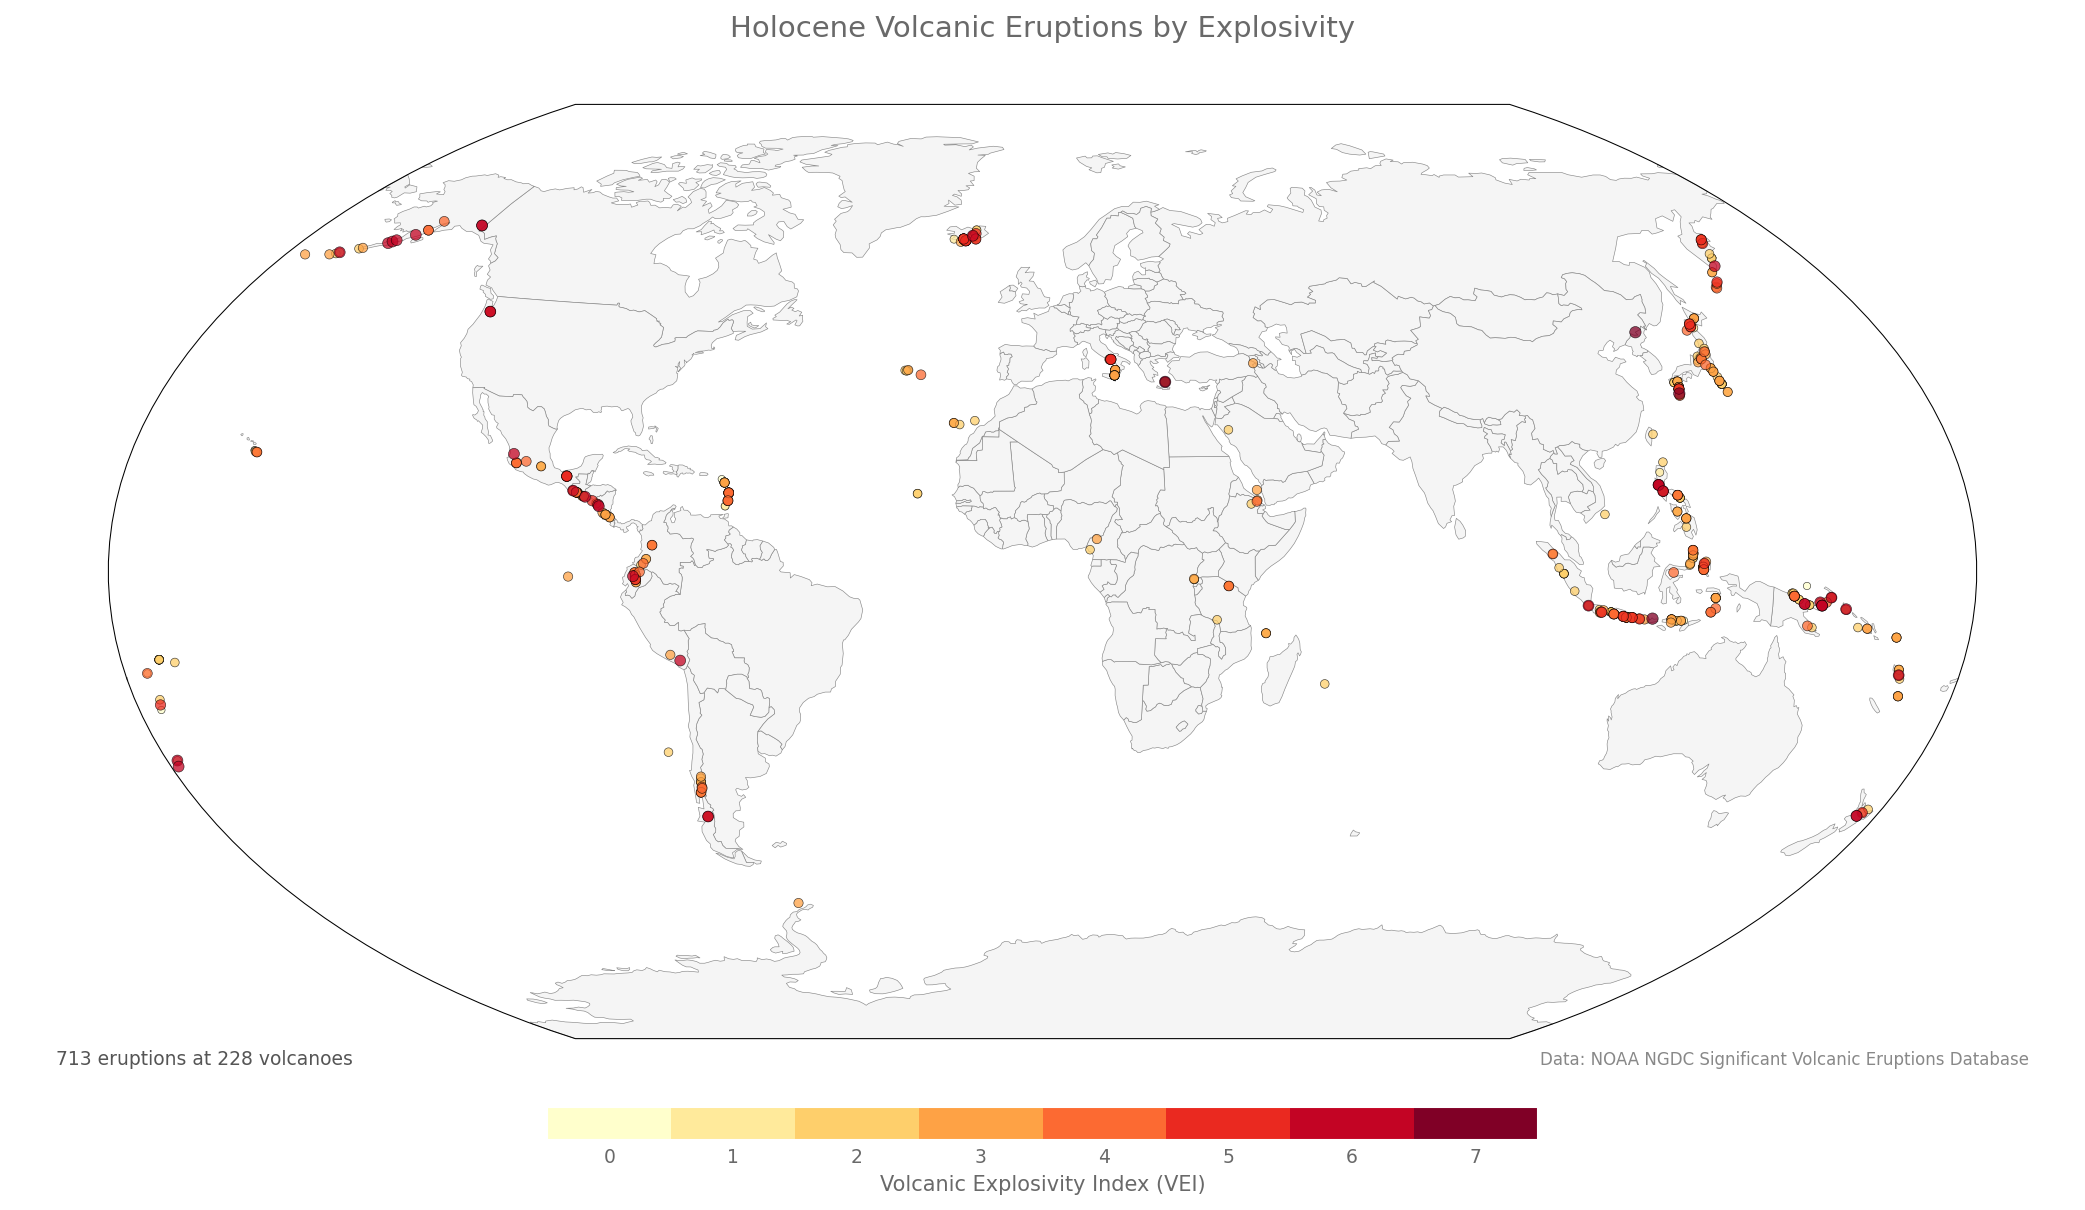
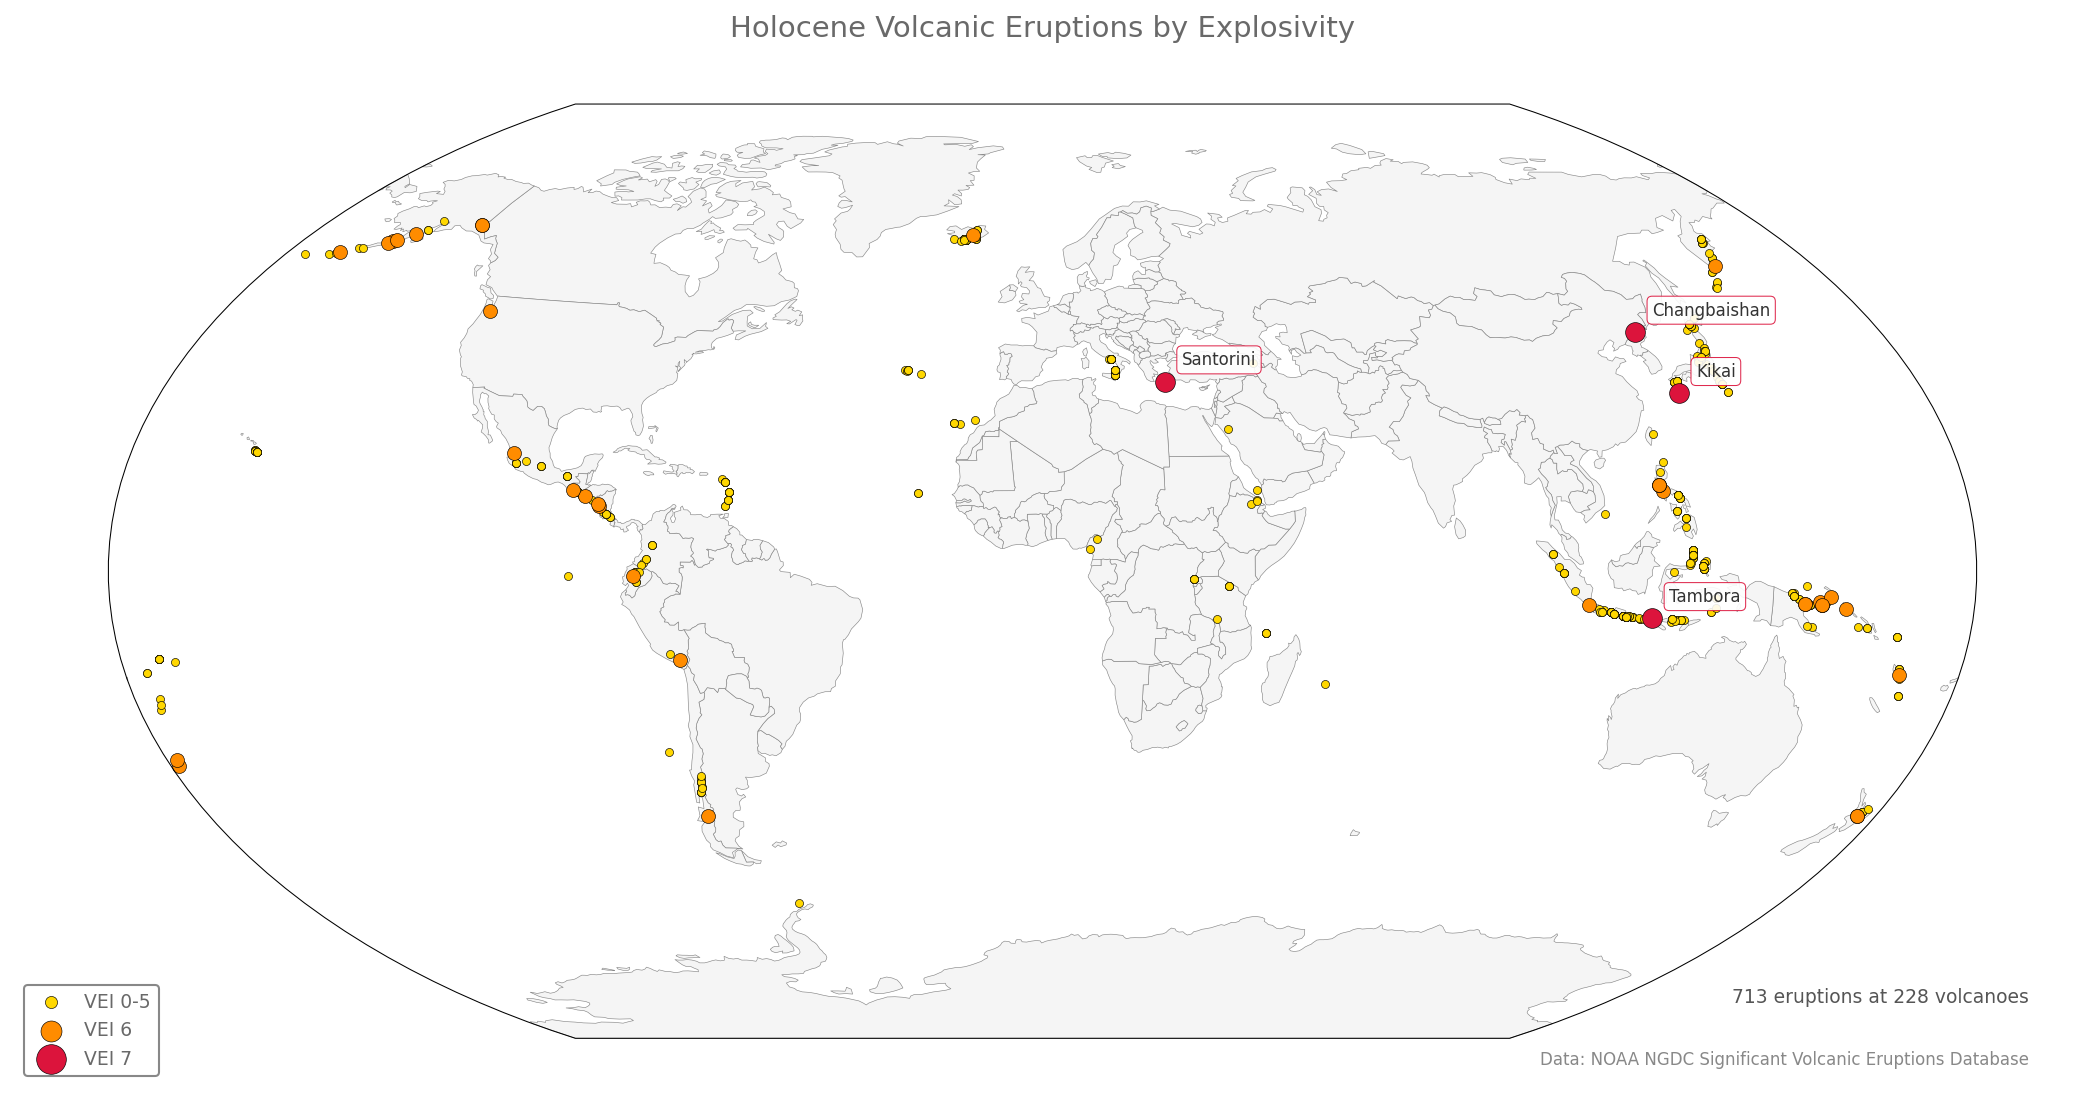
Improved the final plot

diff --git a/src/volcano_map.py b/src/volcano_map.py
@@ -1,8 +1,9 @@
 """
 Plot Holocene volcanic eruptions on a world map, colored by VEI.
 
-Reads volcano data from data/volcano_list.tsv and creates a map showing
-eruption locations as dots colored by Volcanic Explosivity Index (VEI).
+Reads volcano data from data/volcano_list.csv and creates a map showing
+eruption locations as dots. VEI 0-5 shown in yellow, VEI 6 in orange (2x size),
+VEI 7 in red (4x size), with volcano names labeled.
 
 Usage:
     python src/plot_volcano_map.py
@@ -11,8 +12,6 @@ Usage:
 import pandas as pd
 import geopandas as gpd
 import matplotlib.pyplot as plt
-from matplotlib.colors import BoundaryNorm
-from matplotlib.cm import ScalarMappable
 import numpy as np
 import warnings
 from pathlib import Path
@@ -23,7 +22,7 @@ plt.style.use("https://raw.githubusercontent.com/allfed/ALLFED-matplotlib-style-
 
 def load_volcano_data(filepath):
     """
-    Load and clean volcano eruption data from TSV file.
+    Load and clean volcano eruption data from CSV file.
     
     Handles the NOAA NGDC format which has:
     - A "Search Parameters" row at the top
@@ -118,13 +117,6 @@ def plot_volcano_map(volcano_gdf, output_path):
     world = world.to_crs('+proj=wintri')
     volcano_gdf = volcano_gdf.to_crs('+proj=wintri')
     
-    # Set up VEI colormap
-    # VEI ranges 0-7, using Yellow-Orange-Red for intuitive severity mapping
-    vei_min, vei_max = 0, 7
-    vei_levels = np.arange(vei_min, vei_max + 2)  # Boundaries: 0,1,2,3,4,5,6,7,8
-    cmap = plt.cm.YlOrRd
-    norm = BoundaryNorm(vei_levels, cmap.N)
-    
     # Create figure
     fig, ax = plt.subplots(figsize=(14, 8))
     ax.set_facecolor('white')
@@ -132,25 +124,74 @@ def plot_volcano_map(volcano_gdf, output_path):
     # Plot countries (light gray background)
     world.plot(ax=ax, color='#F5F5F5', edgecolor='#888888', linewidth=0.3)
     
-    # Sort by VEI so larger eruptions are plotted on top
-    volcano_gdf = volcano_gdf.sort_values('VEI')
+    # Define VEI groups with colors and sizes
+    # Base size for VEI 0-5, then double for each level
+    base_size = 60
+    vei_groups = [
+        {'vei_range': (0, 5), 'color': '#FFD700', 'size': base_size, 'label': 'VEI 0-5'},
+        {'vei_range': (6, 6), 'color': '#FF8C00', 'size': base_size * 3, 'label': 'VEI 6'},
+        {'vei_range': (7, 7), 'color': '#DC143C', 'size': base_size * 6, 'label': 'VEI 7'}
+    ]
     
-    # Size scales with VEI for better visibility of large eruptions
-    sizes = 50 + volcano_gdf['VEI'] * 10
+    # Plot each VEI group separately
+    # Plot in reverse order so larger eruptions appear on top
+    for group in vei_groups:
+        vei_min, vei_max = group['vei_range']
+        mask = (volcano_gdf['VEI'] >= vei_min) & (volcano_gdf['VEI'] <= vei_max)
+        subset = volcano_gdf[mask]
+        
+        if len(subset) > 0:
+            ax.scatter(
+                subset.geometry.x,
+                subset.geometry.y,
+                c=group['color'],
+                s=group['size'],
+                alpha=1,
+                edgecolor='black',
+                linewidth=0.3,
+                label=group['label'],
+                zorder=3
+            )
     
-    # Plot volcano points
-    scatter = ax.scatter(
-        volcano_gdf.geometry.x,
-        volcano_gdf.geometry.y,
-        c=volcano_gdf['VEI'],
-        cmap=cmap,
-        norm=norm,
-        s=sizes,
-        alpha=0.75,
-        edgecolor='black',
-        linewidth=0.3,
-        zorder=3
-    )
+    # Add labels for VEI 7 eruptions
+    vei7_mask = volcano_gdf['VEI'] == 7
+    vei7_eruptions = volcano_gdf[vei7_mask]
+    
+    # Use adjustText if available, otherwise simple labels with offset
+    try:
+        from adjustText import adjust_text
+        texts = []
+        for idx, row in vei7_eruptions.iterrows():
+            text = ax.annotate(
+                row['Name'],
+                xy=(row.geometry.x, row.geometry.y),
+                xytext=(8, 8),
+                textcoords='offset points',
+                fontsize=8,
+                color='#333333',
+                bbox=dict(boxstyle='round,pad=0.3', facecolor='white', 
+                         edgecolor='grey', alpha=0.9, linewidth=0.5),
+                zorder=4
+            )
+            texts.append(text)
+        
+        # Adjust text positions to avoid overlaps
+        adjust_text(texts, arrowprops=dict(arrowstyle='-', color='#888888', 
+                                          lw=0.5, alpha=0.7))
+    except ImportError:
+        # Fallback: simple labels with offset
+        for idx, row in vei7_eruptions.iterrows():
+            ax.annotate(
+                row['Name'],
+                xy=(row.geometry.x, row.geometry.y),
+                xytext=(8, 8),
+                textcoords='offset points',
+                fontsize=8,
+                color='#333333',
+                bbox=dict(boxstyle='round,pad=0.3', facecolor='white', 
+                         edgecolor='#DC143C', alpha=0.9, linewidth=0.5),
+                zorder=4
+            )
     
     # Add ALLFED border
     border.plot(ax=ax, edgecolor='black', linewidth=0.5, facecolor='none', zorder=4)
@@ -158,34 +199,30 @@ def plot_volcano_map(volcano_gdf, output_path):
     # Remove axes
     ax.set_axis_off()
     
-    # Add colorbar
-    sm = ScalarMappable(cmap=cmap, norm=norm)
-    sm.set_array([])
-    cbar = fig.colorbar(
-        sm,
-        ax=ax,
-        orientation='horizontal',
-        fraction=0.03,
-        pad=0.02,
-        aspect=30,
-        ticks=np.arange(vei_min, vei_max + 1) + 0.5  # Center ticks in each color band
+    # Add legend (lower left)
+    legend = ax.legend(
+        loc='lower left',
+        frameon=True,
+        facecolor='white',
+        edgecolor='#888888',
+        fontsize=9,
+        markerscale=1.5
     )
-    cbar.ax.set_xticklabels(range(vei_min, vei_max + 1))  # Label with actual VEI values
-    cbar.set_label('Volcanic Explosivity Index (VEI)', fontsize=10)
-    cbar.ax.tick_params(labelsize=9, which='both', length=0, width=0)
+    legend.set_zorder(5)
     
     # Add title
     ax.set_title('Holocene Volcanic Eruptions by Explosivity', fontsize=14, pad=10)
     
-    # Add data summary annotation
+    # Add data summary annotation (lower right to avoid legend overlap)
     n_eruptions = len(volcano_gdf)
     n_volcanoes = volcano_gdf['Name'].nunique()
     ax.annotate(
         f'{n_eruptions:,} eruptions at {n_volcanoes:,} volcanoes',
-        xy=(0.02, 0.02),
+        xy=(0.98, 0.08),
         xycoords='axes fraction',
         fontsize=9,
-        color='#555555'
+        color='#555555',
+        ha='right'
     )
     
     # Add source annotation

diff --git a/src/overview_plots.py b/src/overview_plots.py
@@ -1,0 +1,142 @@
+"""
+ALLFED-style global map creator with easy country grouping.
+
+Creates:
+    Figure 1: Three stacked world maps (ASRS, GCIL, GCBR)
+"""
+
+import matplotlib.pyplot as plt
+import geopandas as gpd
+import warnings
+
+# Apply ALLFED style
+plt.style.use("https://raw.githubusercontent.com/allfed/ALLFED-matplotlib-style-sheet/main/ALLFED.mplstyle")
+
+
+def load_world_data():
+    """Load Natural Earth country boundaries."""
+    url = "https://naciscdn.org/naturalearth/110m/cultural/ne_110m_admin_0_countries.zip"
+    try:
+        world = gpd.read_file(url)
+    except Exception:
+        with warnings.catch_warnings():
+            warnings.simplefilter("ignore")
+            world = gpd.read_file(gpd.datasets.get_path('naturalearth_lowres'))
+    return world
+
+
+def load_border():
+    """Load ALLFED map border."""
+    url = 'https://raw.githubusercontent.com/ALLFED/ALLFED-map-border/main/border.geojson'
+    border = gpd.read_file(url)
+    border = border.set_crs('+proj=wintri', allow_override=True)
+    return border
+
+
+class WorldMap:
+    """Create ALLFED-style world maps with grouped country highlighting."""
+    
+    def __init__(self, default_color='#F5F5F5', ocean_color='white', border_color='#404040'):
+        self.default_color = default_color
+        self.ocean_color = ocean_color
+        self.border_color = border_color
+        self.world = load_world_data()
+        self.border = load_border()
+        self.world = self.world.to_crs('+proj=wintri')
+    
+    def _match_countries(self, country_list):
+        """Match country names/codes to the dataset."""
+        matched = self.world[
+            self.world['NAME'].isin(country_list) |
+            self.world['ISO_A3'].isin(country_list) |
+            self.world['ISO_A2'].isin(country_list)
+        ]
+        
+        all_matched = set(matched['NAME']) | set(matched['ISO_A3']) | set(matched['ISO_A2'])
+        unmatched = [c for c in country_list if c not in all_matched]
+        if unmatched:
+            warnings.warn(f"Could not match countries: {unmatched}")
+        
+        return matched.index
+    
+    def plot_single(self, ax, countries, color):
+        """
+        Plot a single map on a given axes.
+        
+        Parameters
+        ----------
+        ax : matplotlib axes
+            The axes to plot on.
+        countries : set or list
+            Countries to highlight.
+        color : str
+            Color for highlighted countries.
+        """
+        colors = [self.default_color] * len(self.world)
+        
+        idx = self._match_countries(countries)
+        for i in idx:
+            colors[i] = color
+        
+        ax.set_facecolor(self.ocean_color)
+        
+        self.world.plot(
+            ax=ax,
+            color=colors,
+            edgecolor=self.border_color,
+            linewidth=0.3
+        )
+        
+        self.border.plot(ax=ax, edgecolor='black', linewidth=0.5, facecolor='none')
+        ax.set_axis_off()
+    
+    def plot_stacked(self, categories, figsize=(10, 14)):
+        """
+        Plot multiple maps stacked vertically with titles above each map.
+        
+        Parameters
+        ----------
+        categories : list of tuples
+            Each tuple: (countries_set, color, title)
+        figsize : tuple
+            Figure size in inches.
+            
+        Returns
+        -------
+        fig, axes
+        """
+        n = len(categories)
+        
+        fig, axes = plt.subplots(n, 1, figsize=figsize)
+        
+        if n == 1:
+            axes = [axes]
+        
+        for ax, (countries, color, title) in zip(axes, categories):
+            self.plot_single(ax, countries, color)
+            ax.set_title(title, fontsize=11, pad=5)
+        
+        plt.tight_layout()
+        return fig, axes
+
+
+if __name__ == '__main__':
+    # Define country sets
+    asrs = {'Australia', 'New Zealand', 'Argentina', 'Brazil', 'Uruguay', 'Chile'}
+    gcil = {'Australia', 'New Zealand', 'Switzerland', 'Uruguay', 'China', 'Brazil'}
+    gcbr = {'Australia', 'New Zealand', 'Norway', 'Sweden', 'Denmark', 'Finland',
+            'Canada', 'Switzerland', 'Japan', 'KOR'}
+    
+    # Figure 1: Three stacked maps
+    wm = WorldMap()
+    
+    categories = [
+        (asrs, '#779d77', 'ASRS: Abrupt Sunlight Reduction Scenarios'),
+        (gcil, '#b58365', 'GCIL: Global Catastrophic Infrastructure Loss'),
+        (gcbr, '#8c798c', 'GCBR: Global Catastrophic Biological Risks'),
+    ]
+    
+    fig, axes = wm.plot_stacked(categories)
+    fig.savefig('results/figures/gcr_resilience_stacked_maps.png', dpi=150, bbox_inches='tight')
+    
+    plt.show()
